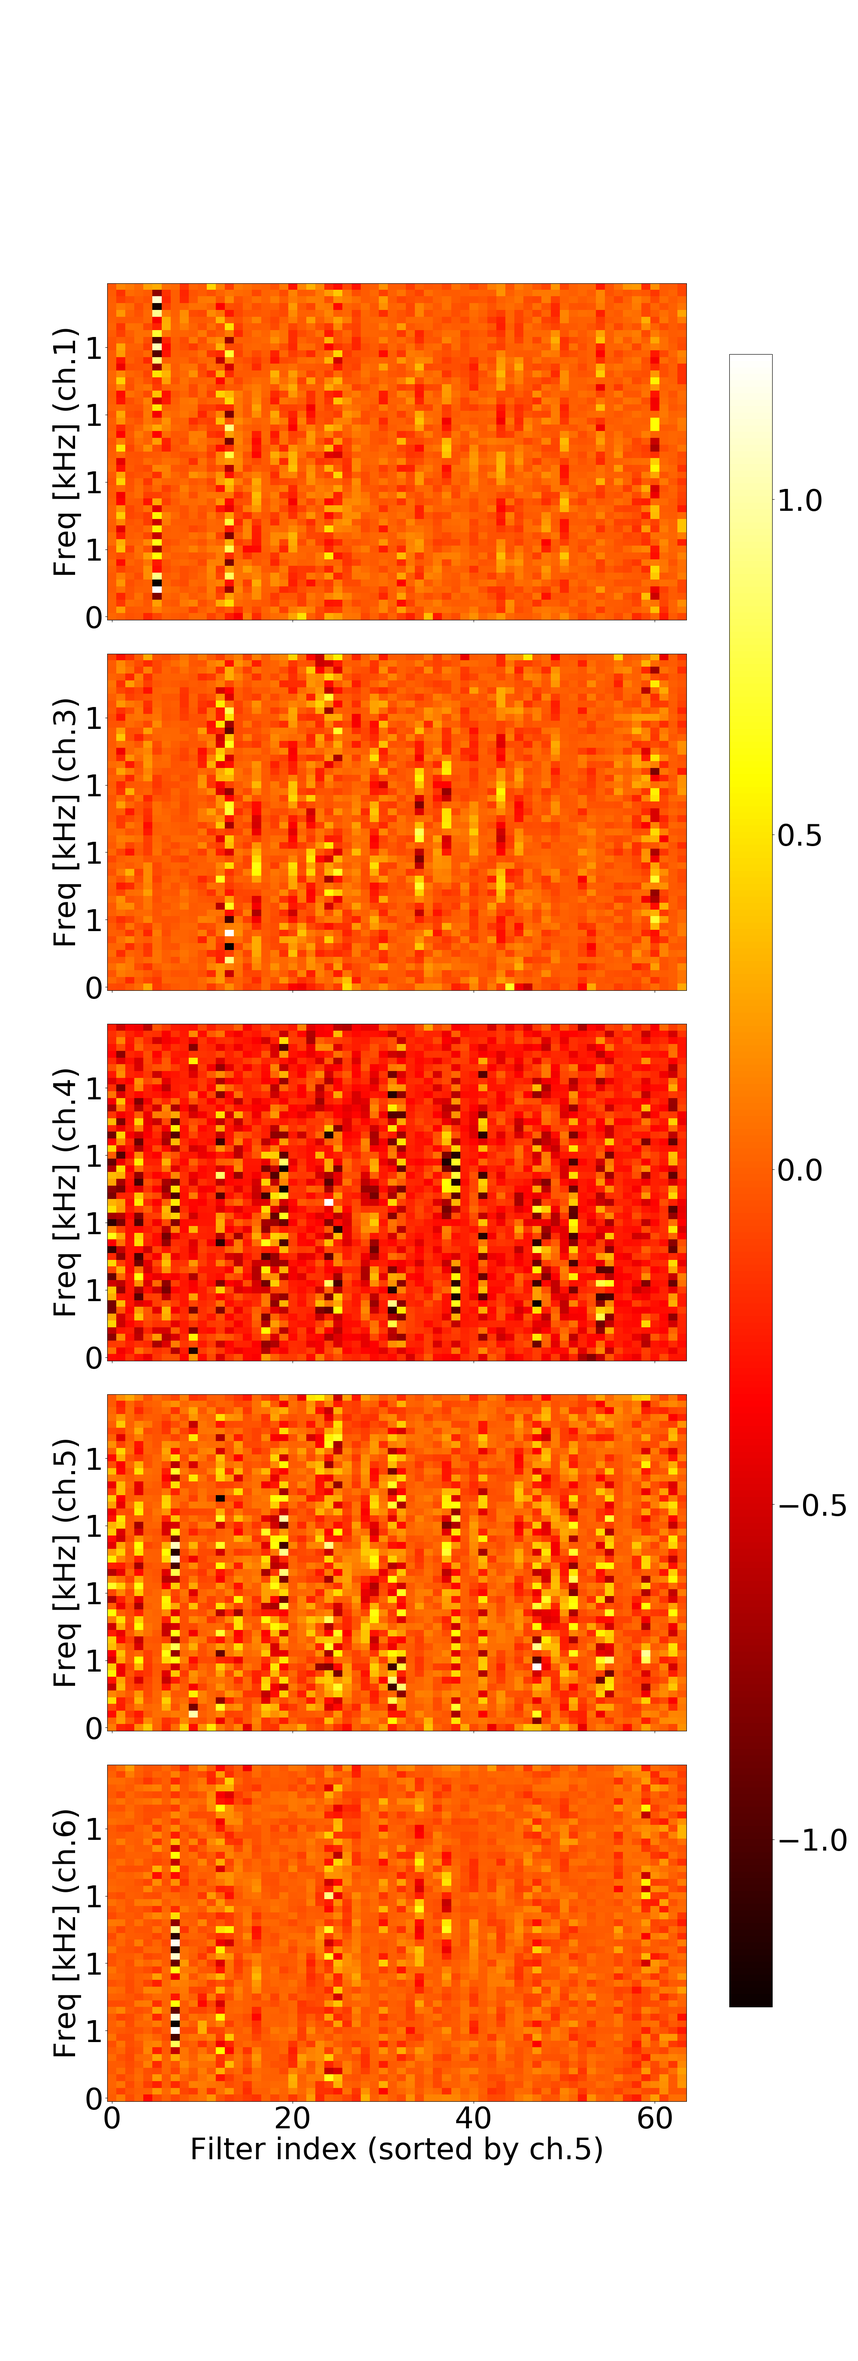
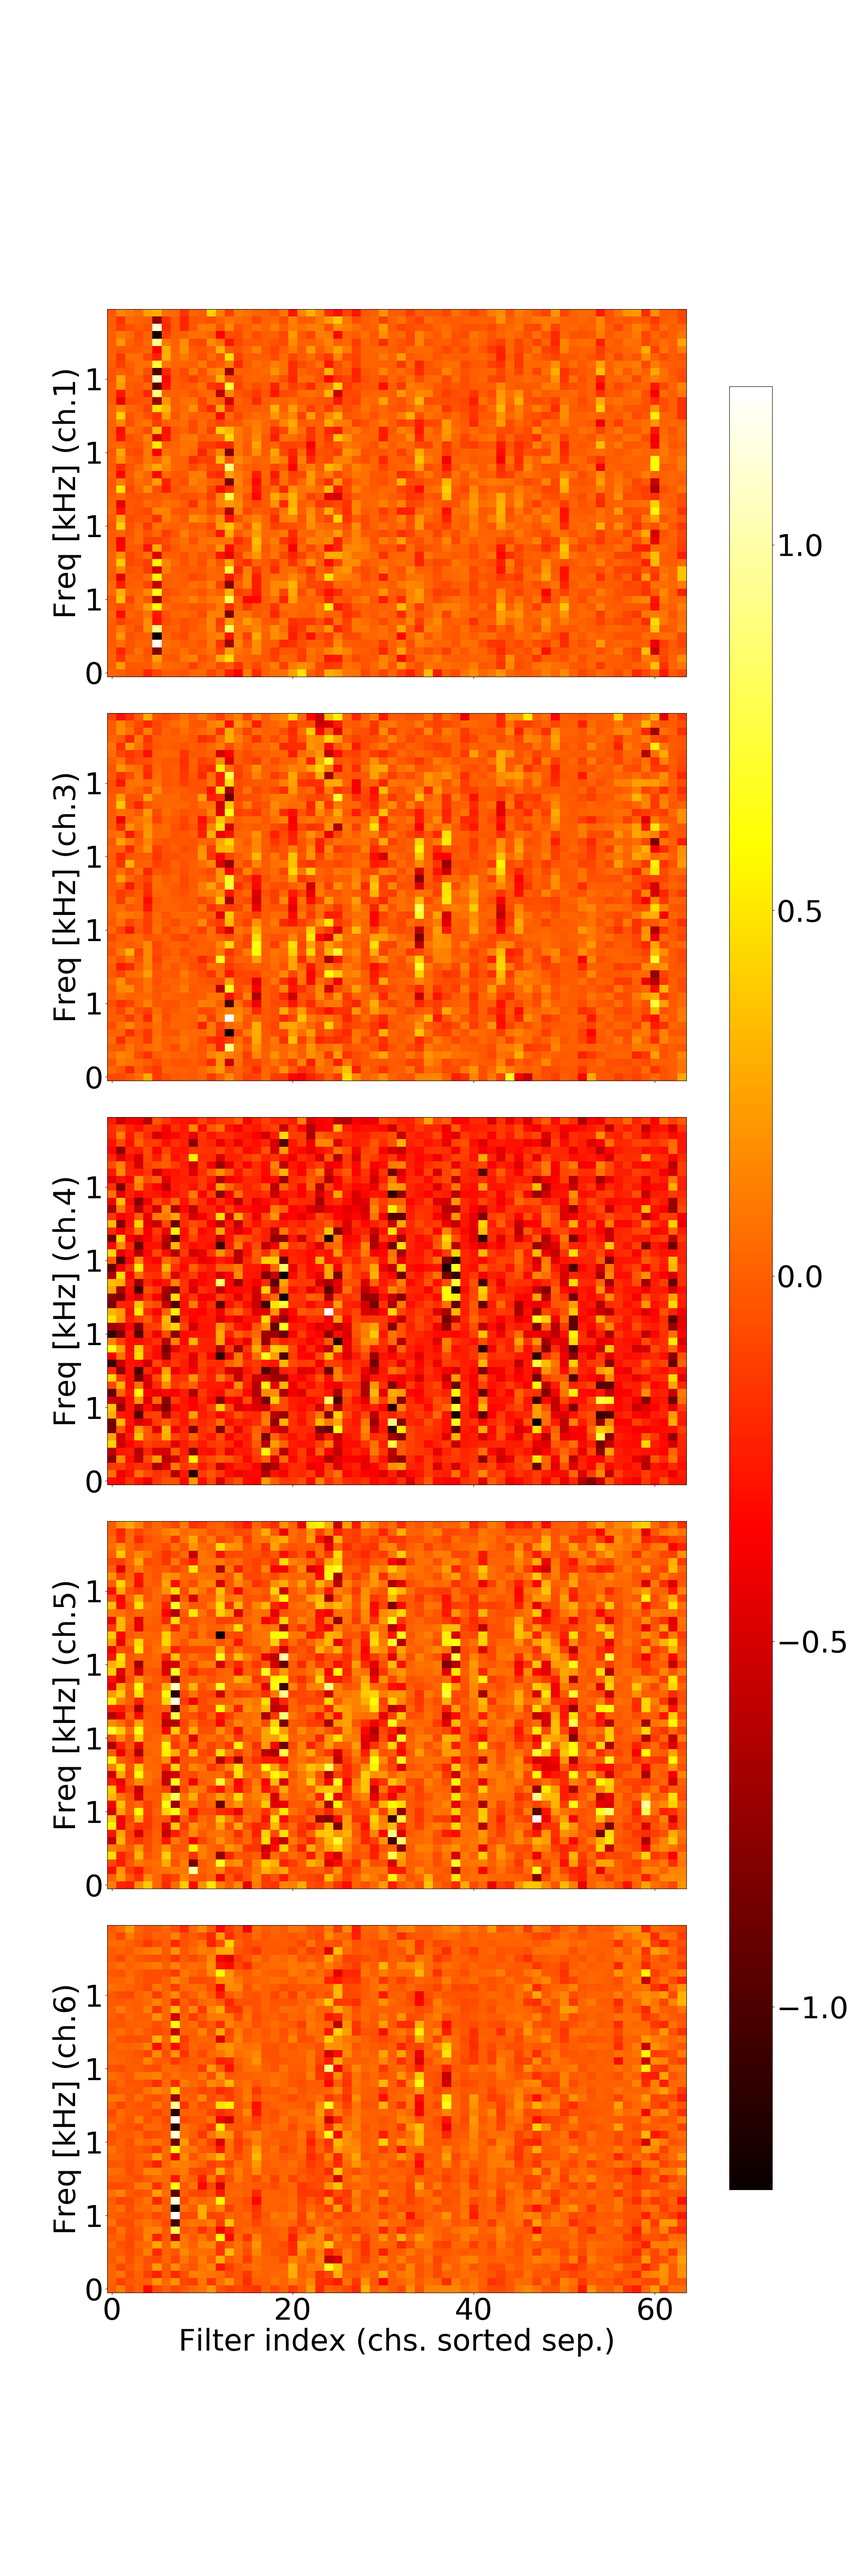
up

diff --git a/returnnTfNetworkLayerPlotter.py b/returnnTfNetworkLayerPlotter.py
@@ -530,8 +530,8 @@ class Plotter(object):
                 axs[dimInputIdx][epochRangeIdx].yaxis.set_major_formatter(plt.FuncFormatter(format_func))
                 axs[dimInputIdx][epochRangeIdx].set_ylabel('Freq [kHz] (ch.' + channels[dimInputIdx] + ')')
 #                axs[dimInputIdx][epochRangeIdx].set_ylabel(self.layer.domain + '_for_channel_' + str(dimInputIdx))
-#            axs[-1][epochRangeIdx].set_xlabel('Filter index (each ch. sorted sep.)')
-            axs[-1][epochRangeIdx].set_xlabel('Filter index (sorted by ch.5)')
+            axs[-1][epochRangeIdx].set_xlabel('Filter index (chs. sorted sep.)')
+#            axs[-1][epochRangeIdx].set_xlabel('Filter index (sorted by ch.5)')
 #                axs[dimInputIdx][epochRangeIdx].set_xlabel('filterIdx_' + mode + '_for epoch' + '_' + '%03d' % (self.epochRangeToPlot[epochRangeIdx],))
 
         fig.subplots_adjust(hspace=0.1)
